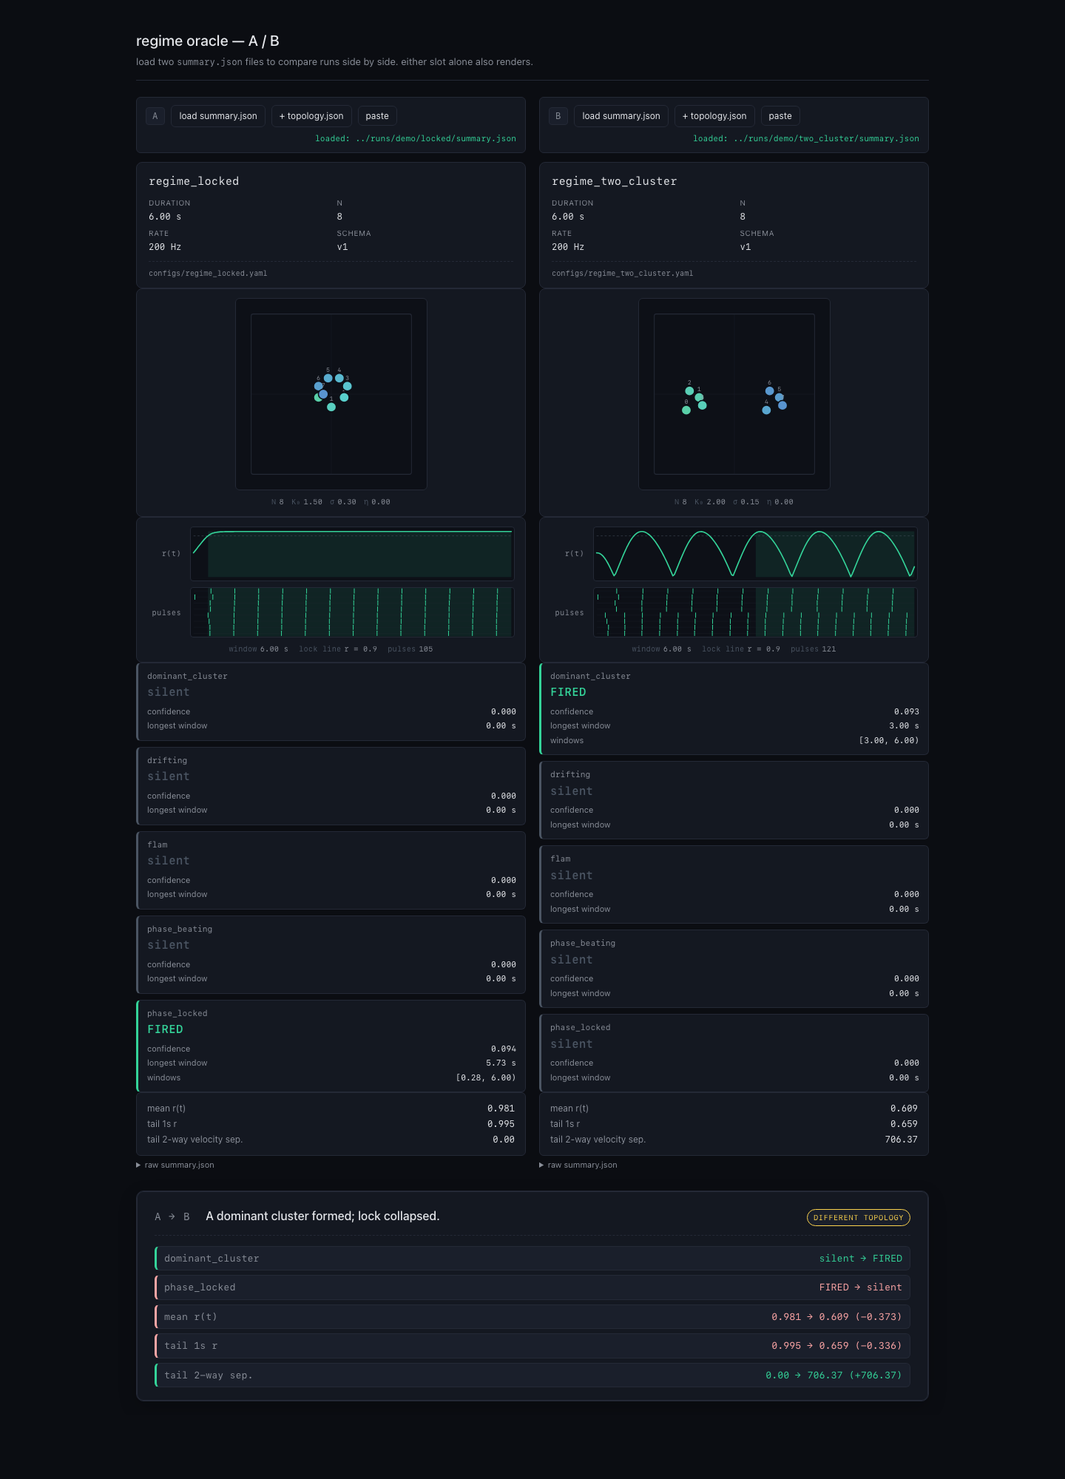
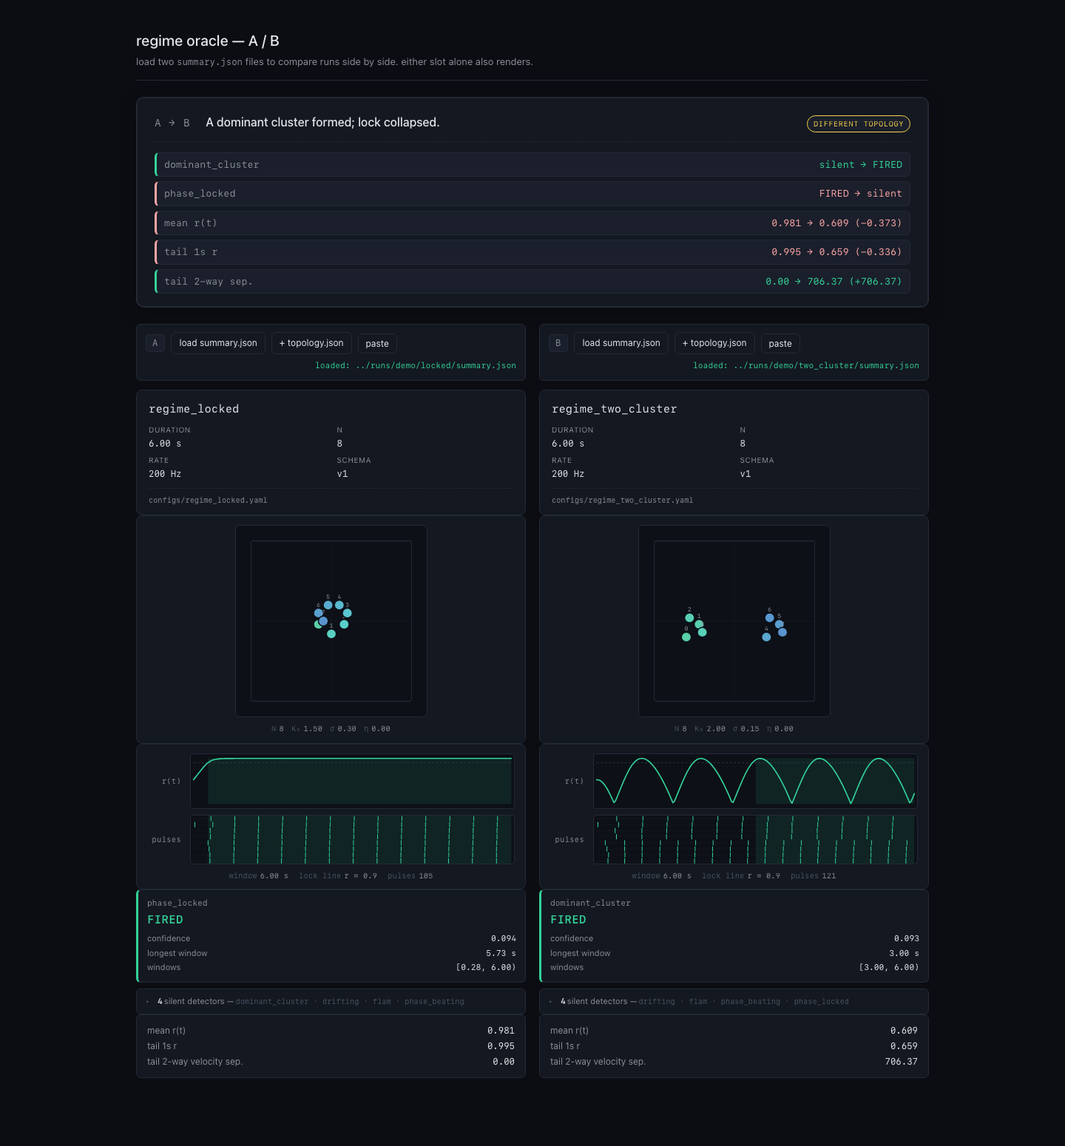
feat(demo): compact hierarchy — hoist takeaway, collapse silent detectors
Re-rank the demo so the semantic headline lands above the fold. Three
additive changes, zero information removed:

- DOM reorder: #comparison card moves from last-child of <main> to
  sit directly below the page header and above .slots. Visibility
  still gates on both slots loaded; no new JS logic.
- Silent detectors in each slot collapse into a <details> disclosure
  titled e.g. "3 silent detectors — dominant_cluster · flam · phase_locked"
  (names always visible, cards accessible on expand at 75% opacity).
  Fired detectors continue to render inline as full cards.
- Hero screenshots regenerated at the tighter post-compact viewport
  (1440x1550 vs 1440x2000 previously); filenames unchanged so the
  README embed keeps working.

No schema changes, no new detectors, no frontend framework, no query-
param toggle — per-slot disclosure + raw-JSON expander already cover
"show me everything" at zero extra code.

diff --git a/demo/style.css b/demo/style.css
@@ -368,6 +368,52 @@ button:focus-visible,
   font-size: 11px;
 }
 
+/* -- silent-detector disclosure (compact mode default) -- */
+.silent-group {
+  background: var(--card);
+  border: 1px solid var(--border);
+  border-radius: 6px;
+  padding: 0;
+  overflow: hidden;
+}
+.silent-group-summary {
+  list-style: none;
+  cursor: pointer;
+  user-select: none;
+  padding: 8px 12px;
+  font-size: 11px;
+  color: var(--muted);
+  display: flex;
+  align-items: baseline;
+  gap: 2px;
+  flex-wrap: wrap;
+}
+.silent-group-summary::-webkit-details-marker { display: none; }
+.silent-group-summary::before {
+  content: "▸";
+  display: inline-block;
+  width: 10px;
+  color: var(--dim);
+  margin-right: 4px;
+  transition: transform 120ms ease;
+}
+.silent-group[open] > .silent-group-summary::before {
+  transform: rotate(90deg);
+}
+.silent-group-summary:hover { color: var(--text); }
+.silent-count { color: var(--text); font-weight: 600; }
+.silent-label  { color: var(--muted); }
+.silent-names  { color: var(--dim); font-size: 10px; }
+.silent-group-cards {
+  display: flex;
+  flex-direction: column;
+  gap: 6px;
+  padding: 2px 8px 10px;
+}
+.silent-group .detector-card {
+  opacity: 0.75;
+}
+
 /* -- rows (shared) -- */
 .row {
   display: flex;
@@ -411,13 +457,14 @@ button:focus-visible,
   line-height: 1.4;
 }
 
-/* -- comparison card — the visual focus -- */
+/* -- comparison card — the visual focus, hoisted above the slot grid -- */
 .comparison {
   background: var(--card);
   border: 1px solid var(--border);
   border-radius: 10px;
   padding: 22px 24px 18px;
   box-shadow: 0 0 0 1px var(--border) inset, 0 8px 24px rgba(0, 0, 0, 0.2);
+  margin-bottom: 22px;
 }
 .comparison-header {
   display: flex;

diff --git a/demo/app.js b/demo/app.js
@@ -479,7 +479,31 @@ function renderSummary(slotKey, summary, sourceLabel) {
   if (names.length === 0) {
     els.detectors.append(el("p", "empty-note", "(no detectors reported)"));
   } else {
-    for (const n of names) els.detectors.append(renderDetectorCard(n, detectors[n]));
+    // Fired detectors render inline; silent ones collapse into a
+    // disclosure so the slot's default height is driven by what
+    // actually fired, not by detector count. No information is
+    // removed — the silent names appear in the disclosure summary,
+    // and expanding shows the full per-detector card.
+    const firedNames = names.filter((n) => detectors[n].fired);
+    const silentNames = names.filter((n) => !detectors[n].fired);
+    for (const n of firedNames) {
+      els.detectors.append(renderDetectorCard(n, detectors[n]));
+    }
+    if (silentNames.length > 0) {
+      const details = el("details", "silent-group");
+      const caption = el("summary", "silent-group-summary");
+      const label = silentNames.length === 1 ? "silent detector" : "silent detectors";
+      caption.append(el("span", "silent-count mono", String(silentNames.length)));
+      caption.append(el("span", "silent-label", ` ${label} — `));
+      caption.append(el("span", "silent-names mono", silentNames.join(" · ")));
+      details.append(caption);
+      const inner = el("div", "silent-group-cards");
+      for (const n of silentNames) {
+        inner.append(renderDetectorCard(n, detectors[n]));
+      }
+      details.append(inner);
+      els.detectors.append(details);
+    }
   }
 
   els.stats.innerHTML = "";

diff --git a/demo/index.html b/demo/index.html
@@ -13,6 +13,15 @@
     <p class="sub">load two <code>summary.json</code> files to compare runs side by side. either slot alone also renders.</p>
   </header>
 
+  <section id="comparison" class="comparison" hidden aria-label="A vs B comparison">
+    <header class="comparison-header">
+      <h2>A &rarr; B</h2>
+      <p id="takeaway" class="takeaway"></p>
+      <span id="topo-badge" class="topo-badge" hidden></span>
+    </header>
+    <ul id="diff-list" class="diff-list"></ul>
+  </section>
+
   <section class="slots">
     <article class="slot" data-slot="A">
       <header class="slot-header">
@@ -131,15 +140,6 @@
         </details>
       </div>
     </article>
-  </section>
-
-  <section id="comparison" class="comparison" hidden aria-label="A vs B comparison">
-    <header class="comparison-header">
-      <h2>A &rarr; B</h2>
-      <p id="takeaway" class="takeaway"></p>
-      <span id="topo-badge" class="topo-badge" hidden></span>
-    </header>
-    <ul id="diff-list" class="diff-list"></ul>
   </section>
 
   <section class="empty-both" id="empty-both">

diff --git a/DIRECTORS_NOTES.md b/DIRECTORS_NOTES.md
@@ -64,8 +64,8 @@ Real-time interaction, audio-rate tone coupling, GNNs, RLHF, third-party music d
 - `requirements.txt` — `numpy>=2.0`, `pyyaml>=6.0`.
 - `.gitignore` — excludes `runs/` outputs and Python bytecode.
 - `run.sh` — repo-root convenience launcher for the browser demo. Bash (not strict POSIX — uses an array for the fixture list); `set -euo pipefail`. Creates `.venv` if missing via `python3 -m venv`, installs `requirements.txt` into it only when `import numpy, yaml` fails (cheap pre-flight), then regenerates every fixture's demo artifacts under `runs/demo/<fixture>/` by invoking `scripts/run_sim.py --config configs/regime_<fixture>.yaml --out runs/demo/<fixture> --summary-json` (quiet; fails loudly if any config is missing). Prints a block of copy-pasteable browser URLs (two compelling A/B comparisons — `locked` vs `two_cluster` for the `dominant_cluster` flip, and `two_cluster` vs `phase_beating` for structure-vs-rhythm — plus one single-run URL per fixture), then `exec`s `python -m http.server --bind 127.0.0.1 $PORT` (default `8000`, `PORT=9000 ./run.sh` overrides). URL printing happens before the server starts so the output is visible even while the foreground server blocks. Not a task runner: no Makefile, no dependency-check beyond the venv pre-flight, no log file, no daemonization — a 90-line launcher, explicit in `run.sh`.
-- `demo/` — browser-facing surface, A/B comparison mode. `index.html` + `style.css` + `app.js`, vanilla, no build step, no framework, no server-framework. Two independent slots (A and B), each with its own summary file picker, a secondary `+ topology.json` file picker (for `file://` use where siblings can't be auto-fetched), a paste-box, and a status line; query params `?summaryA=URL` and `?summaryB=URL` (legacy `?summary=URL` still loads into slot A) auto-populate when the repo is served by `python -m http.server`, and each slot also best-effort-fetches a sibling `topology.json` next to the summary URL (overridable via `?topologyA=URL` / `?topologyB=URL`). Each slot renders three data cards: (1) a **topology card** (a padded `100×100` SVG viewBox with faint frame + centerline guides, one `<circle>` per node at its unit-square `pos` — y-flipped so config `y=0` sits at the bottom — with a monospace index label and a subtle green-to-blue HSL fill ramp keyed on each node's `omega_0_hz` within the run's frequency range, plus an `N · K₀ · σ · η` footer; gracefully shows "topology unavailable" centered in the stage when no topology is loaded); (2) a **dynamics card** — two stacked `240×{40,N·4.5}` SVG panels showing the `r(t)` sparkline and a per-node pulse raster, fed by `summary.json.stats.r_series` / `stats.pulse_raster`. The sparkline draws a dashed `r = 0.9` reference line (the `phase_locked` threshold) and every fired detector's `windows_s` intervals are painted as translucent green accent bands behind BOTH the sparkline and the raster — so the reader sees at a glance *when* each named regime held. Footer shows `window / lock line / pulses`; (3) the **detector cards** — one per detector (fired vs silent, confidence, longest window, window intervals) — plus a small stats block (`mean r(t)`, `tail 1s r`, optional `tail 2-way velocity separability` with `null` → `"inf"`) and a raw-JSON expander. When both slots are loaded, a **comparison card** appears below them with a rule-based one-line takeaway (e.g. *"A dominant cluster formed; lock collapsed."*), an optional `same topology` / `different topology` badge (per-index position compare with `EPS = 1e-3` when both topologies are loaded), and a bulleted diff list: detector flips (silent ↔ FIRED), confidence changes on pairs that stay fired, and stat deltas (`mean_r`, `tail_1s_mean_r`, separability) with signed values and up/down color accents. The comparison is the semantic focus; the topology card is the static body the semantics live in; the dynamics card is the live physics those semantics summarize. Robust to schema-version mismatches (warns and renders best-effort), missing detectors (skipped in a slot, shown as silent→absent in the diff), missing optional stats / series (panel renders `"r(t) unavailable"` / `"pulse raster unavailable"` placeholders), `null` separability (renders `"inf"`, treated as not-a-number for delta arithmetic), and missing / malformed topology (falls back to the placeholder without blocking any other card).
-- `docs/screenshots/` — committed hero screenshots for the README and for remote review when the author is away from the laptop. `hero-locked-vs-two_cluster.png` (A/B showing the `dominant_cluster` detector flip — r(t) pinned near 1 vs oscillating beating pattern) and `structure-vs-rhythm.png` (two_cluster vs phase_beating — same 4+4 body but a different dynamics signature). Regenerated via Chrome headless at viewport `1440×2000`: `"/Applications/Google Chrome.app/Contents/MacOS/Google Chrome" --headless=new --disable-gpu --hide-scrollbars --window-size=1440,2000 --virtual-time-budget=3000 --screenshot=docs/screenshots/NAME.png URL` after `run.sh` has started the static server. Committed binaries on purpose — small (~200 KB each) and the README reference is load-bearing for a reader's first-impression signal.
+- `demo/` — browser-facing surface, A/B comparison mode. `index.html` + `style.css` + `app.js`, vanilla, no build step, no framework, no server-framework. Two independent slots (A and B), each with its own summary file picker, a secondary `+ topology.json` file picker (for `file://` use where siblings can't be auto-fetched), a paste-box, and a status line; query params `?summaryA=URL` and `?summaryB=URL` (legacy `?summary=URL` still loads into slot A) auto-populate when the repo is served by `python -m http.server`, and each slot also best-effort-fetches a sibling `topology.json` next to the summary URL (overridable via `?topologyA=URL` / `?topologyB=URL`). DOM order when both slots are loaded: (0) page header; (1) **comparison card** — hoisted above the slot grid; (2) slot grid (A and B side by side); (3) empty-both hint (hidden when any slot is loaded). Each slot renders, top to bottom: meta card → topology card → dynamics card → detector stack → stats → raw-JSON expander. The **topology card** is a padded `100×100` SVG viewBox with faint frame + centerline guides, one `<circle>` per node at its unit-square `pos` — y-flipped so config `y=0` sits at the bottom — with a monospace index label and a subtle green-to-blue HSL fill ramp keyed on each node's `omega_0_hz` within the run's frequency range, plus an `N · K₀ · σ · η` footer. The **dynamics card** is two stacked `240×{40,N·4.5}` SVG panels showing the `r(t)` sparkline and a per-node pulse raster, fed by `summary.json.stats.r_series` / `stats.pulse_raster`. The sparkline draws a dashed `r = 0.9` reference line (the `phase_locked` threshold) and every fired detector's `windows_s` intervals are painted as translucent green accent bands behind BOTH the sparkline and the raster — so the reader sees at a glance *when* each named regime held. Footer shows `window / lock line / pulses`. The **detector stack** is compact-by-default: FIRED detectors render inline as full cards; silent detectors collapse into a `<details>` disclosure titled e.g. `▸ 3 silent detectors — dominant_cluster · flam · phase_locked` (count + alphabetized names always visible; expanding reveals the full silent cards at 75% opacity). No information is hidden — only re-ranked — and the silent disclosure works per-slot regardless of whether the other slot is loaded. The **comparison card** (shown only when BOTH slots are loaded) carries a rule-based one-line takeaway (e.g. *"A dominant cluster formed; lock collapsed."*), an optional `same topology` / `different topology` badge, and a bulleted diff list: detector flips (silent ↔ FIRED), confidence changes on pairs that stay fired, and stat deltas (`mean_r`, `tail_1s_mean_r`, separability). The card lives above the slot grid so the takeaway is always the first thing a reader sees once both slots load. Robust to schema-version mismatches (warns and renders best-effort), missing detectors (skipped in a slot, shown as silent→absent in the diff), missing optional stats / series (panel renders `"r(t) unavailable"` / `"pulse raster unavailable"` placeholders), `null` separability (renders `"inf"`, treated as not-a-number for delta arithmetic), and missing / malformed topology (falls back to the placeholder without blocking any other card).
+- `docs/screenshots/` — committed hero screenshots for the README and for remote review when the author is away from the laptop. `hero-locked-vs-two_cluster.png` (A/B showing the `dominant_cluster` detector flip — r(t) pinned near 1 vs oscillating beating pattern) and `structure-vs-rhythm.png` (two_cluster vs phase_beating — same 4+4 body but a different dynamics signature). Regenerated via Chrome headless at viewport `1440×1550` post-compact-layout (`1440×2000` pre-compact): `"/Applications/Google Chrome.app/Contents/MacOS/Google Chrome" --headless=new --disable-gpu --hide-scrollbars --window-size=1440,1550 --virtual-time-budget=3000 --screenshot=docs/screenshots/NAME.png URL` after `run.sh` has started the static server. Committed binaries on purpose — small (~130–160 KB each) and the README reference is load-bearing for a reader's first-impression signal.
 
 ### First coding milestone
 Simulator + detectors + dataset dump only. **No model code yet.** Acceptance criteria are recorded in `DESIGN_V0.md §11` (renumbered from §9 when the contracts were inserted).
@@ -79,6 +79,22 @@ Simulator + detectors + dataset dump only. **No model code yet.** Acceptance cri
 ---
 
 ## Resolved Dragons and Pivots
+
+### 2026-04-21 — Claude Opus 4.7 (doc pass 22 — compact demo hierarchy)
+Re-rank, don't redesign. The previous pass made the physics visible (r(t) sparkline + pulse raster) but the semantic headline was still buried: the comparison takeaway sat ~1400 px below the fold, and every slot rendered five detector cards even though typically only one was fired. This pass hoists the comparison card above the slot grid and collapses silent detectors into a per-slot `<details>` disclosure. No information removed — the silent detector names sit in the disclosure summary line and expanding reveals the same cards at 75 % opacity — just re-ranked so the headline and the fired detectors drive the default page height. Hero screenshot viewport shrinks from 2000 to 1550 px as a side effect.
+
+- **Verbatim move from Canon, superseded by the new `demo/` line.** Preserved here per the Canon-edit rule.
+  > `demo/` — browser-facing surface, A/B comparison mode. `index.html` + `style.css` + `app.js`, vanilla, no build step, no framework, no server-framework. Two independent slots (A and B), each with its own summary file picker, a secondary `+ topology.json` file picker (for `file://` use where siblings can't be auto-fetched), a paste-box, and a status line; query params `?summaryA=URL` and `?summaryB=URL` (legacy `?summary=URL` still loads into slot A) auto-populate when the repo is served by `python -m http.server`, and each slot also best-effort-fetches a sibling `topology.json` next to the summary URL (overridable via `?topologyA=URL` / `?topologyB=URL`). Each slot renders three data cards: (1) a **topology card** (a padded `100×100` SVG viewBox with faint frame + centerline guides, one `<circle>` per node at its unit-square `pos` — y-flipped so config `y=0` sits at the bottom — with a monospace index label and a subtle green-to-blue HSL fill ramp keyed on each node's `omega_0_hz` within the run's frequency range, plus an `N · K₀ · σ · η` footer; gracefully shows "topology unavailable" centered in the stage when no topology is loaded); (2) a **dynamics card** — two stacked `240×{40,N·4.5}` SVG panels showing the `r(t)` sparkline and a per-node pulse raster, fed by `summary.json.stats.r_series` / `stats.pulse_raster`. The sparkline draws a dashed `r = 0.9` reference line (the `phase_locked` threshold) and every fired detector's `windows_s` intervals are painted as translucent green accent bands behind BOTH the sparkline and the raster — so the reader sees at a glance *when* each named regime held. Footer shows `window / lock line / pulses`; (3) the **detector cards** — one per detector (fired vs silent, confidence, longest window, window intervals) — plus a small stats block (`mean r(t)`, `tail 1s r`, optional `tail 2-way velocity separability` with `null` → `"inf"`) and a raw-JSON expander. When both slots are loaded, a **comparison card** appears below them with a rule-based one-line takeaway (e.g. *"A dominant cluster formed; lock collapsed."*), an optional `same topology` / `different topology` badge (per-index position compare with `EPS = 1e-3` when both topologies are loaded), and a bulleted diff list: detector flips (silent ↔ FIRED), confidence changes on pairs that stay fired, and stat deltas (`mean_r`, `tail_1s_mean_r`, separability) with signed values and up/down color accents. The comparison is the semantic focus; the topology card is the static body the semantics live in; the dynamics card is the live physics those semantics summarize. Robust to schema-version mismatches (warns and renders best-effort), missing detectors (skipped in a slot, shown as silent→absent in the diff), missing optional stats / series (panel renders `"r(t) unavailable"` / `"pulse raster unavailable"` placeholders), `null` separability (renders `"inf"`, treated as not-a-number for delta arithmetic), and missing / malformed topology (falls back to the placeholder without blocking any other card).
+- **The hoist was a DOM reorder, not a rewrite.** `#comparison` moved from the last child of `<main>` to sit directly after `<header class="page-header">` and before `<section class="slots">`. `app.js` already gated visibility on `A && B` loaded; nothing about that logic changed. Added one CSS line — `.comparison { margin-bottom: 22px; }` — so the card breathes above the slots. No query params, no toggle, no "compact mode" switch; compact IS the default, and the existing raw-JSON expander remains the ultimate escape hatch.
+- **Silent detectors: `<details>` disclosure, not opacity shading or toggle.** Tried three shapes mentally: (a) render all five cards with silent ones at 50 % opacity (still takes the same vertical space — doesn't solve the brief); (b) render a single summary row like `"drifting · flam · phase_beating (silent)"` and drop the cards entirely (loses information — the brief explicitly says "do not remove information"); (c) `<details>` disclosure with names in the summary and full cards behind the triangle (names remain visible, cards remain accessible, vertical space collapses when default-closed). (c) wins cleanly. Summary line reads `▸ 3 silent detectors — drifting · flam · phase_beating`; count uses the `mono` typeface and is colored as `--text` so the number pops; names use `--dim` at 10 px so they don't compete with the fired cards above.
+- **Opacity 0.75 on expanded silent cards.** When a reader expands the disclosure, the silent cards render identically to the compact view but at 75 % opacity — visually signaling "these fired nothing, you expanded them on purpose" without changing any card internals. Kept the opacity shift CSS-only (`.silent-group .detector-card { opacity: 0.75 }`) so every other styling rule applies as-is.
+- **Sort policy inside the disclosure: alphabetical.** Matches the sort already used for the outer iteration (`Object.keys(detectors).sort()`). Alternative considered: sort silent detectors by confidence (always 0 — no signal) or by "how close to firing" (no metadata for that today). Alphabetical is predictable, reader-friendly, and cheap. If a future "close to firing" concept (`confidence = -0.002` meaning "just missed") lands, the inner sort can become the more informative order without changing the surface.
+- **Vertical footprint measurement — before vs after.** Pre-compact hero shot (doc pass 21): `1440×2000` viewport. Post-compact hero shot: `1440×1550`. Per-slot detector stack went from ~750 px (five full cards) to ~120 px (one fired card + one 26-px disclosure row) in the typical one-fired-detector case. Above-the-fold on a 900-px laptop now shows: page header + complete comparison card + slot headers + slot meta cards + top of topology stage — i.e. the takeaway sentence and every diff row are visible without scrolling, which was the whole point of the brief.
+- **Single-slot mode sanity-checked.** Loaded `regime_phase_beating` alone — slot A shows two FIRED cards (`drifting` + `phase_beating`) inline, one disclosure `▸ 3 silent detectors — dominant_cluster · flam · phase_locked`, stats block, raw-JSON expander; slot B shows the empty placeholder; comparison card stays hidden (its visibility still gates on A && B both loaded); empty-both hint hides (at least one slot is loaded). No new code paths needed — the per-slot disclosure renders regardless of the other slot's state.
+- **Hero screenshots regenerated at the tighter viewport.** `hero-locked-vs-two_cluster.png` is now 1440×1550, 133 KB (was 1440×2000, 175 KB). `structure-vs-rhythm.png` is 1440×1550, 161 KB. Both regenerated with the same Chrome headless incantation documented in doc pass 21; the filenames are stable references so the README embed didn't need to change.
+- **README embed unchanged.** The `## Try it` lede still points at `docs/screenshots/hero-locked-vs-two_cluster.png`; the image file got regenerated in place. The caption text already said *"the comparison takeaway is auto-generated"* — it just wasn't visible in the first 1400 px of the old screenshot. Now it is.
+- **What is still not done.** No model code, no additional detectors, no `sim.ablate`, no polyrhythmic ratio primitive, no ontology amendment, no `?compact=1` / `?expand=1` URL toggle (skipped because per-slot disclosure + raw-JSON escape hatch cover the use cases at zero additional code), no hover tooltips on the dynamics panels, no audio playback, no sonification-on-click. Schema still at `summary.json v1`, additive across all recent passes.
+- **Next narrow step.** Same as doc pass 21: **`polyrhythmic` next** — one small derived helper (interval-ratio tolerance check on `pulse_times_of`), one new fixture, closes the rhythm-side detector triad (drift / hold / ratio). The demo now makes any new detector's signature visible for free via the dynamics-card accent bands and the hoisted comparison takeaway, so the cost-benefit of adding detectors has improved meaningfully over the last few passes. Alternative if presentation work is still the bottleneck: a tiny Cmd/Ctrl-click-to-sonify binding on the pulse raster ticks that plays a grain at the node's voice. Defer unless the user asks — interactivity is not on the critical path to the project's thesis.
 
 ### 2026-04-21 — Claude Opus 4.7 (doc pass 21 — dynamics card + hero screenshot)
 Made the physics visible. Until this pass the demo was "detector cards + numbers + a takeaway" — accurate but visually indistinguishable from any other stats dashboard; a reader had no signal that this was a *simulation* of anything. Added two compact time-series per slot — a downsampled `r(t)` sparkline with the `r = 0.9` lock line marked, and a per-node pulse raster — with translucent accent bands marking every fired detector's window on both. Locked vs two_cluster now reads at a glance: flat-line-plus-aligned-pulses vs oscillating-plus-two-rhythm-groups. Committed hero screenshots under `docs/screenshots/` and embedded one in the README. Triggered by a "does this screenshot do the project justice?" check from the user — the answer was no, and the fix was to make the physics visible rather than to decorate the existing view.
